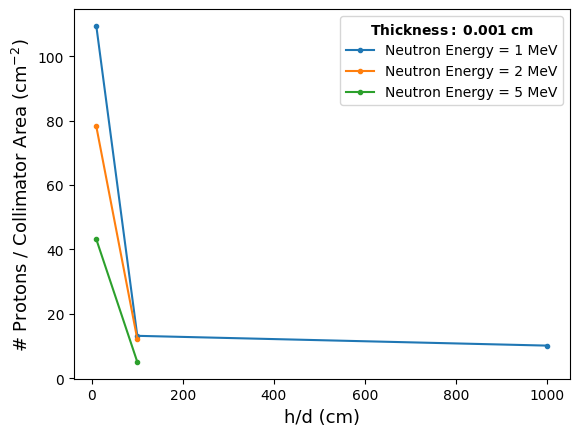
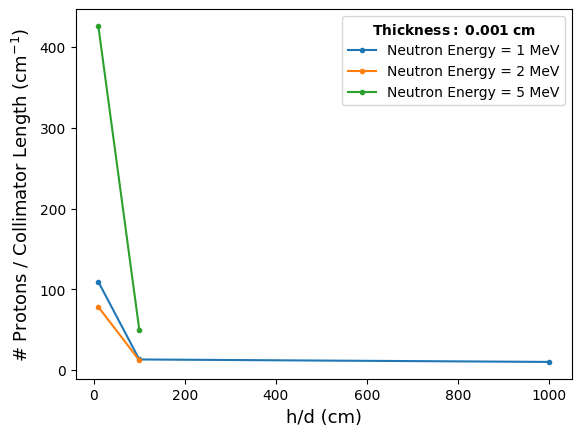
Update plots

diff --git a/plot_efficiency.py b/plot_efficiency.py
@@ -3,7 +3,7 @@ import re
 import numpy as np
 import matplotlib.pyplot as plt
 
-thickness = 1e-4
+thickness = 1e-1
 
 files = os.listdir("result_arrays/")
 h=10 #cm
